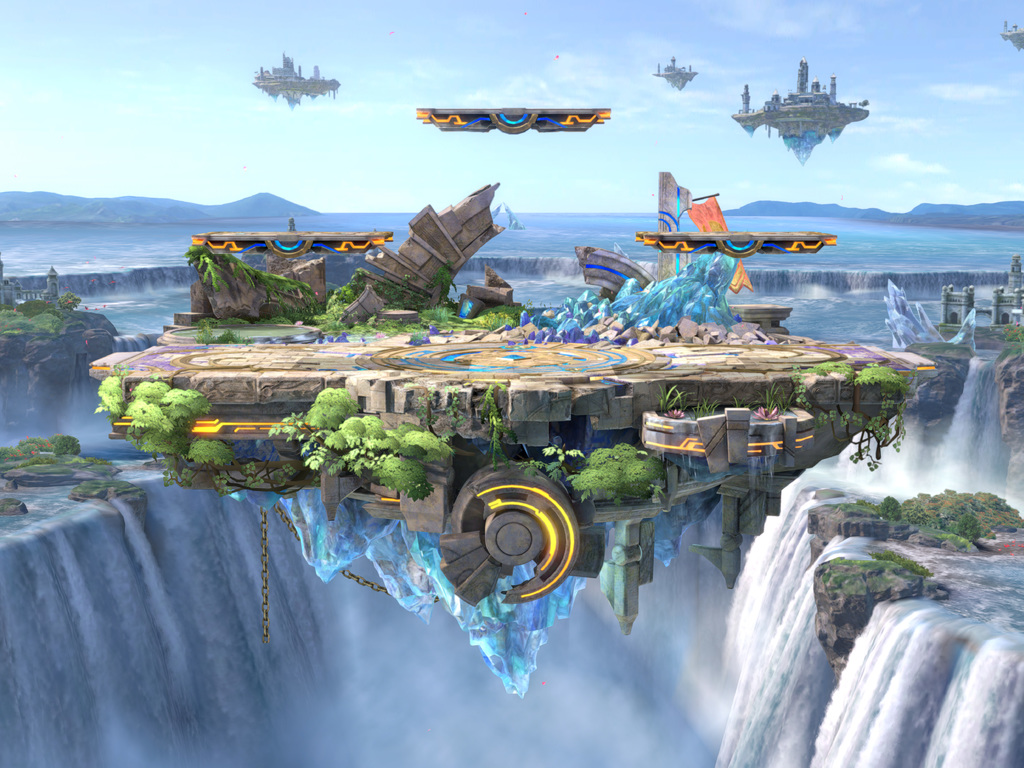
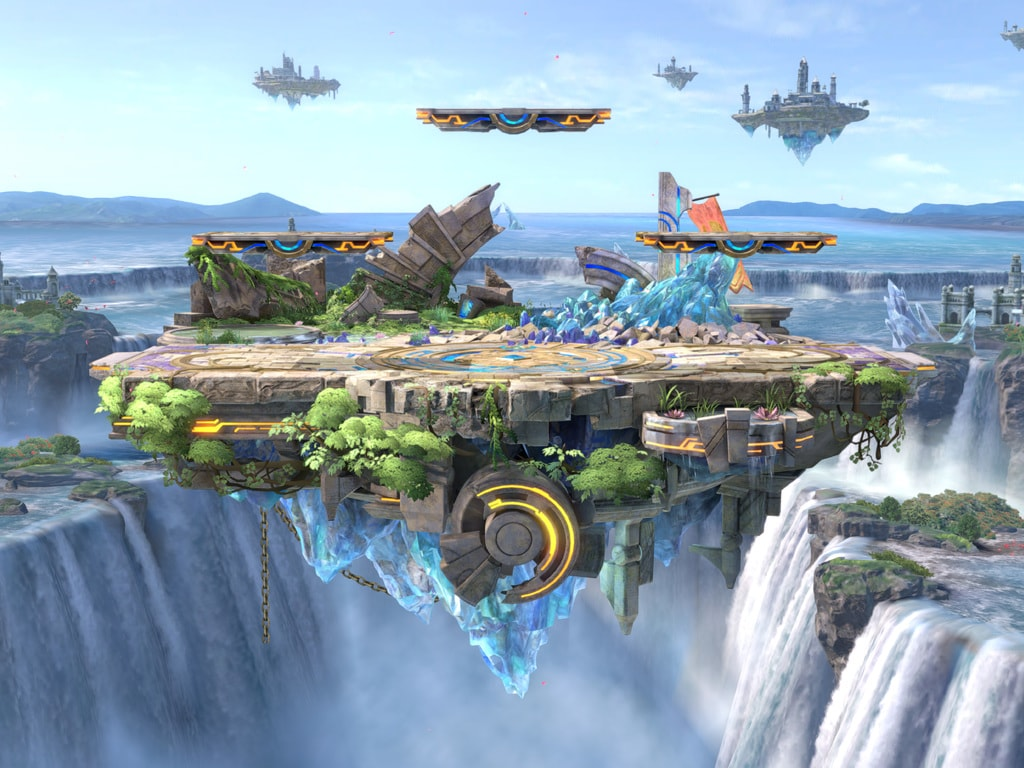
adjusted background image file sizes

diff --git a/assets/css/style.css b/assets/css/style.css
@@ -20,7 +20,7 @@ body {
     position: relative;
     /* float: left; */
     display: block-inline;
-    background-image: url(../../assets/images/new-background.png);
+    background-image: url(../../assets/images/newbackground.jpg);
     /* background-image: url(https://i.imgur.com/uti3UxF.png); */
     background-size: cover;
     background-repeat: no-repeat;
@@ -119,7 +119,7 @@ h1 {
   text-align: center;
 }
 .mobileStatsDiv{
-  font-size: 1.5em;
+  font-size: 1em;
   text-align: center;
   position: relative;
   height: 7vh;
@@ -288,7 +288,6 @@ and (orientation : landscape) {
   }
   .mobileStatsContainer{
     display: flex;
-    bottom: 10%;
   }
   .cardContainer {
     height:75%;
@@ -322,7 +321,6 @@ and (-webkit-min-device-pixel-ratio: 1)
 
   .mobileStatsContainer{
     display: flex;
-    bottom: 10%;
   }
   body{
     background-image: url(/assets/images/vertical-ipad.jpeg);
@@ -415,10 +413,10 @@ and (min-device-width : 375px)
 and (max-device-width : 812px) 
 and (-webkit-device-pixel-ratio : 3)
 and (orientation : portrait)  {
-  /* body{
+  body{
     background-image: url("/assets/images/MM-mobile-vertical.jpg");
     background-size: auto;
-  } */
+  }
   main{
     height: 80vh;
     width: 100vw;
@@ -438,7 +436,7 @@ and (orientation : portrait)  {
   .cardContainer{
     width: 100%;
     height: 90%;
-    left: 2.5%;
+    left: 5%;
   }
 
   .card{
